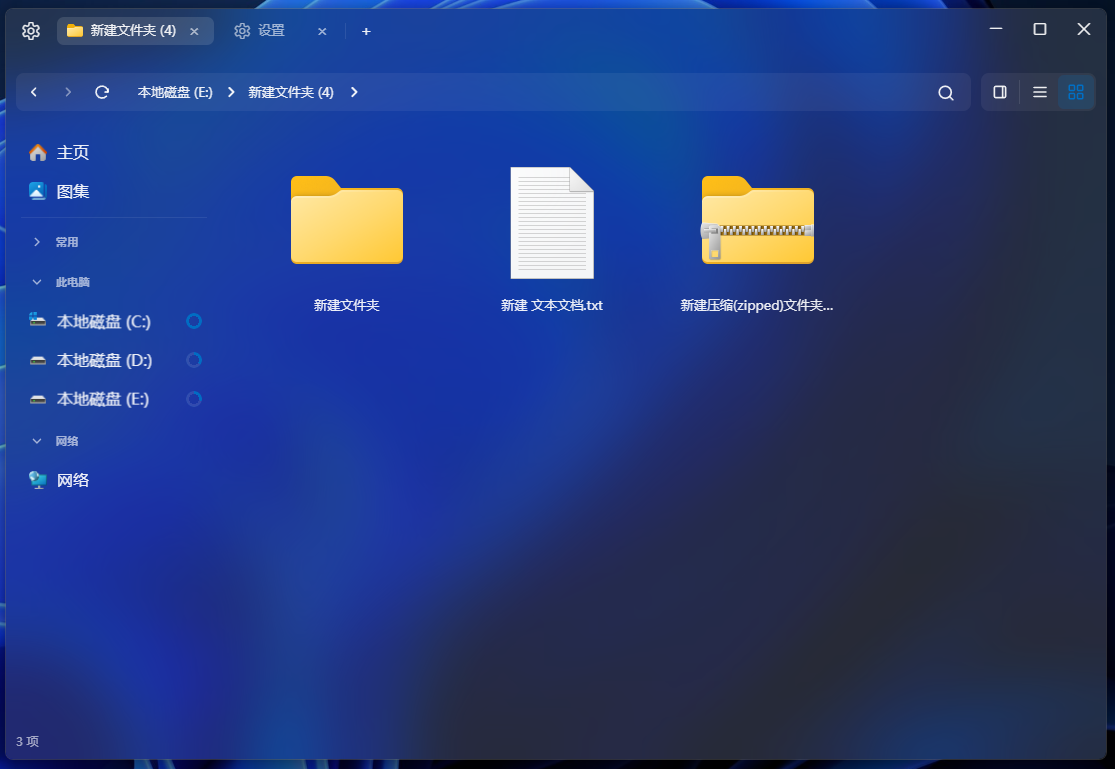
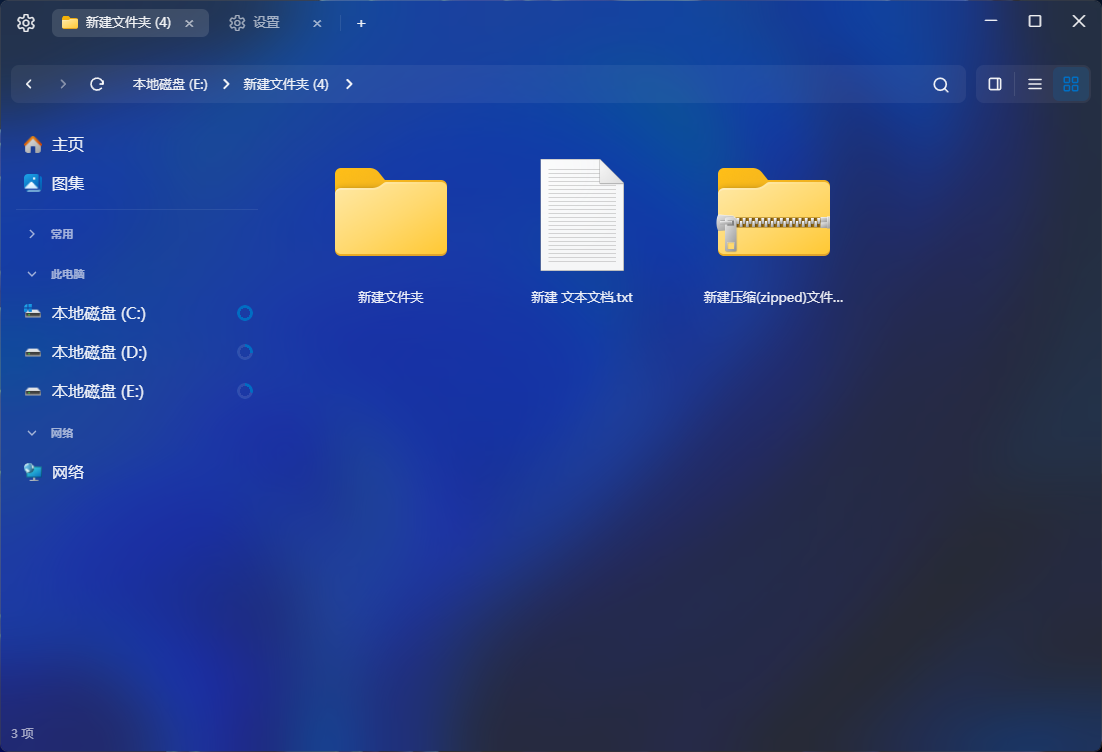
更新自述文件

diff --git a/README.md b/README.md
@@ -7,7 +7,7 @@
 </div>
 
 <p align="center">
-  <img src="./screenshots/FileMgr.png" width="1100" alt="LinkCore Download Manager Logo" />
+  <img src="./screenshots/FileMgr.EN.png" width="1100" alt="LinkCore Download Manager Logo" />
 </p>
 
 # FileMgr
